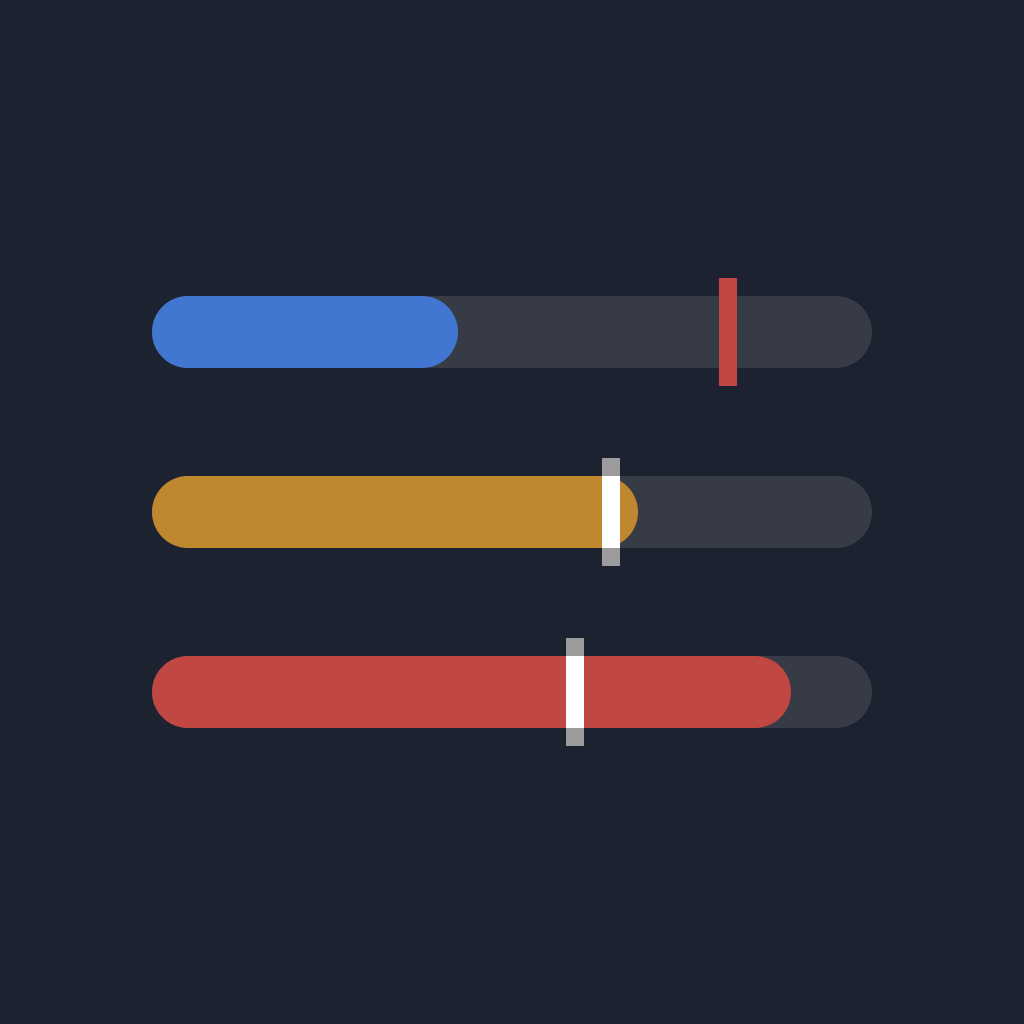
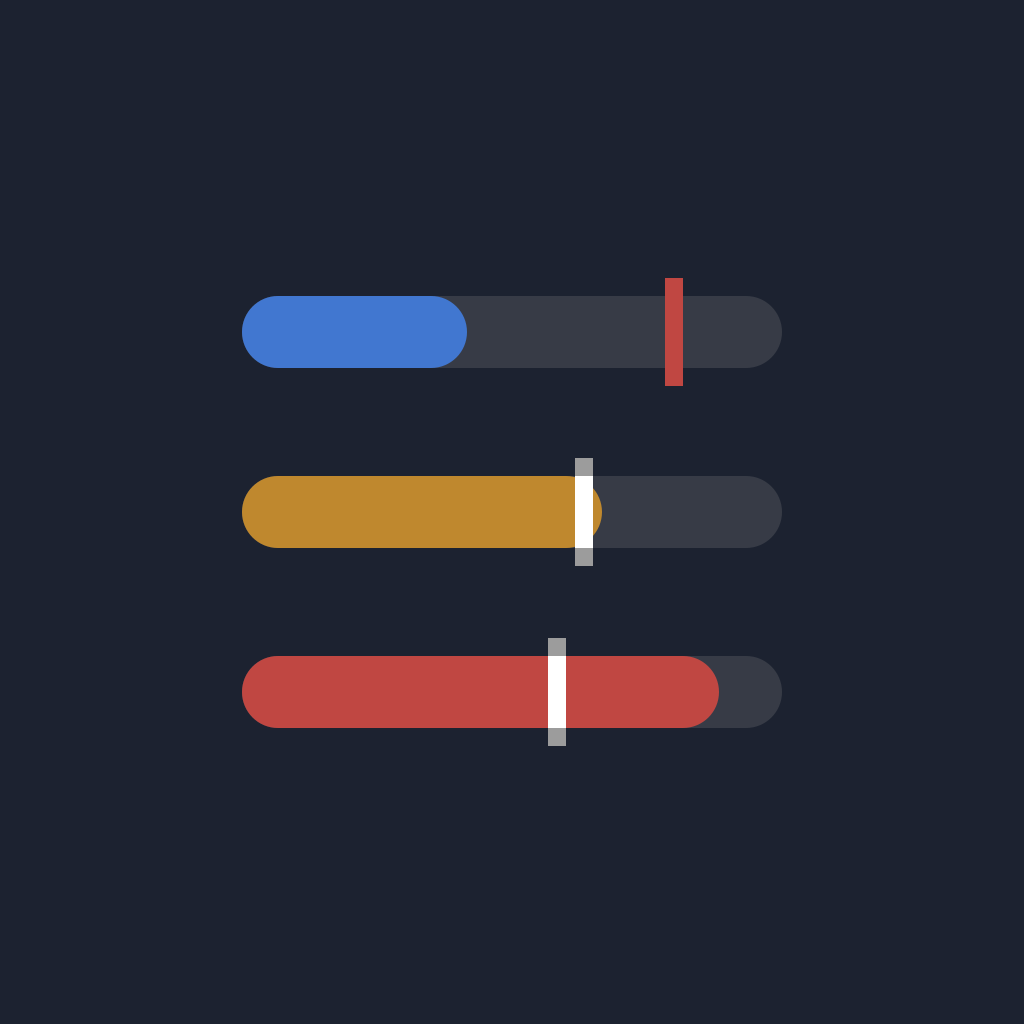
fix: shorten the bar so the cost fits the meters' row again
In a default-width desktop pane (768 px) the cost wrapped onto a line
of its own once the figures grew: with a 1M context window, a two-digit
countdown and a four-character cost, it fell short of the meters' row
by about 1.5 css px, measured from a 2x screenshot. Two ch of gap had
already been taken out of the row; the bars were what was left.

At 60 px each the three bars give back 60 px, roughly six or seven
more characters of figures before the cost wraps again. A split view
still wraps, as intended.

The tick pins move with the width. The hero, social card and icon are
regenerated from the same bar().

diff --git a/plugin/tests/band.test.ts b/plugin/tests/band.test.ts
@@ -81,13 +81,13 @@ test('band shows context fill and each rate-limit window with time to reset', as
   expect((await desktop.find({ type: 'Text', text: /^at this speed: 36% at reset$/ }))?.props.color).toBeUndefined()
   const [ctx, fiveHour, wk] = await desktop.findAll({ type: 'Svg' })
   expect(wk?.props.isInteractive).toBeUndefined()
-  expect(ctx?.props.source).toContain('<rect x="63" width="2" height="12" fill="#c04742"/>')
-  expect(fiveHour?.props.source).toContain('<rect x="25" width="2" height="12" fill="#9c9c9c"/>')
+  expect(ctx?.props.source).toContain('<rect x="47" width="2" height="12" fill="#c04742"/>')
+  expect(fiveHour?.props.source).toContain('<rect x="19" width="2" height="12" fill="#9c9c9c"/>')
   expect(await desktop.find({ type: 'Text', text: /^cache 83%$/ })).toBeDefined()
   expect(wk?.props.source).toContain('#c04742')
   // wk's 59% pace tick sits inside its 89% fill: white across the fill, grey stubs above and below.
   expect(wk?.props.source).toContain(
-    '<rect x="46" width="2" height="2" fill="#9c9c9c"/><rect x="46" y="2" width="2" height="8" fill="#fff"/><rect x="46" y="10" width="2" height="2" fill="#9c9c9c"/>',
+    '<rect x="34" width="2" height="2" fill="#9c9c9c"/><rect x="34" y="2" width="2" height="8" fill="#fff"/><rect x="34" y="10" width="2" height="2" fill="#9c9c9c"/>',
   )
   expect((await desktop.find({ type: 'Text', text: /^89%$/ }))?.props.color).toBe('error')
   expect((await desktop.find({ type: 'Text', text: /^42%$/ }))?.props.dimColor).toBe(true)
@@ -99,8 +99,8 @@ test('band shows context fill and each rate-limit window with time to reset', as
 })
 
 test('a tick level with the fill, or on an empty bar, keeps its own colour', async () => {
-  // 67% and 68% both land on pixel 54: the fill has reached the tick, not passed it.
-  expect(bar(67, [{ percent: 68, color: '#9c9c9c' }])).toContain('<rect x="53" width="2" height="12" fill="#9c9c9c"/>')
+  // 66% and 67% both land on pixel 40: the fill has reached the tick, not passed it.
+  expect(bar(66, [{ percent: 67, color: '#9c9c9c' }])).toContain('<rect x="39" width="2" height="12" fill="#9c9c9c"/>')
   expect(bar(0, [{ percent: 0, color: '#9c9c9c' }])).toContain('<rect x="0" width="2" height="12" fill="#9c9c9c"/>')
   expect(bar(0, [{ percent: 0, color: '#9c9c9c' }])).not.toContain('#fff')
 })

diff --git a/plugin/hooks/bar.ts b/plugin/hooks/bar.ts
@@ -5,7 +5,8 @@ export const tone = (percent: number) => (percent >= 85 ? 'over' : percent >= 60
 const FILL = { calm: '#4177d0', hot: '#bf882e', over: '#c04742' } as const
 export const PACE_TICK = '#9c9c9c'
 export const COMPACT_TICK = '#c04742'
-export const BAR = { width: 80, height: 8, tick: 12 }
+// Three bars share the 768 px desktop row: at 80 the cost wrapped off it by a pixel or two.
+export const BAR = { width: 60, height: 8, tick: 12 }
 
 export const clampPct = (p: number) => Math.min(100, Math.max(0, p))
 const at = (percent: number) => Math.round((clampPct(percent) / 100) * BAR.width)

diff --git a/README.md b/README.md
@@ -4,7 +4,7 @@
 
 [![CI: check](https://github.com/zexion7873/usage-band/actions/workflows/check.yml/badge.svg)](https://github.com/zexion7873/usage-band/actions/workflows/check.yml)
 
-<img src="docs/band.svg" width="746" title="Drawn by the mod's own bar() from sample figures — not a screenshot." alt="The usage band, drawn by the mod's own bar() from sample figures rather than a screenshot: ctx at 42% with 84k of 200k tokens and a red tick at the 80% auto-compact point, 5h at 67% in amber with 1h48m to reset and its pace tick at 64% drawn white where the fill covers it, wk at 89% in red with 2d21h to reset and its pace tick at 59% likewise white, then cache 83% and $1.23.">
+<img src="docs/band.svg" width="686" title="Drawn by the mod's own bar() from sample figures — not a screenshot." alt="The usage band, drawn by the mod's own bar() from sample figures rather than a screenshot: ctx at 42% with 84k of 200k tokens and a red tick at the 80% auto-compact point, 5h at 67% in amber with 1h48m to reset and its pace tick at 64% drawn white where the fill covers it, wk at 89% in red with 2d21h to reset and its pace tick at 59% likewise white, then cache 83% and $1.23.">
 
 **Context fill and every rate-limit window, always on, right above the Claude
 Code prompt — in the desktop app's Code tab as well as the terminal.**
